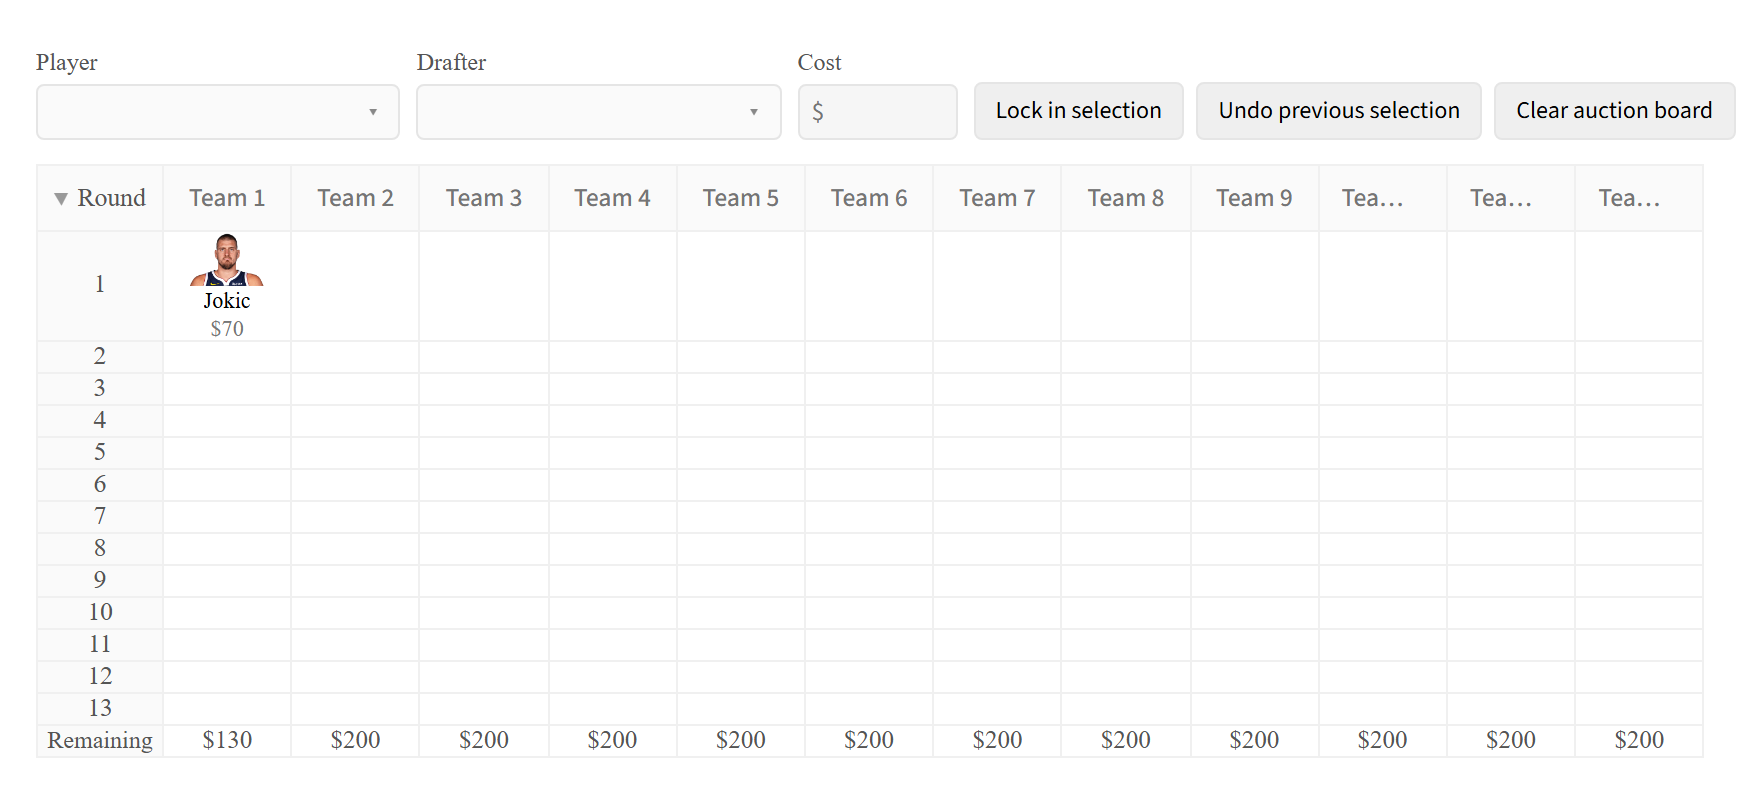
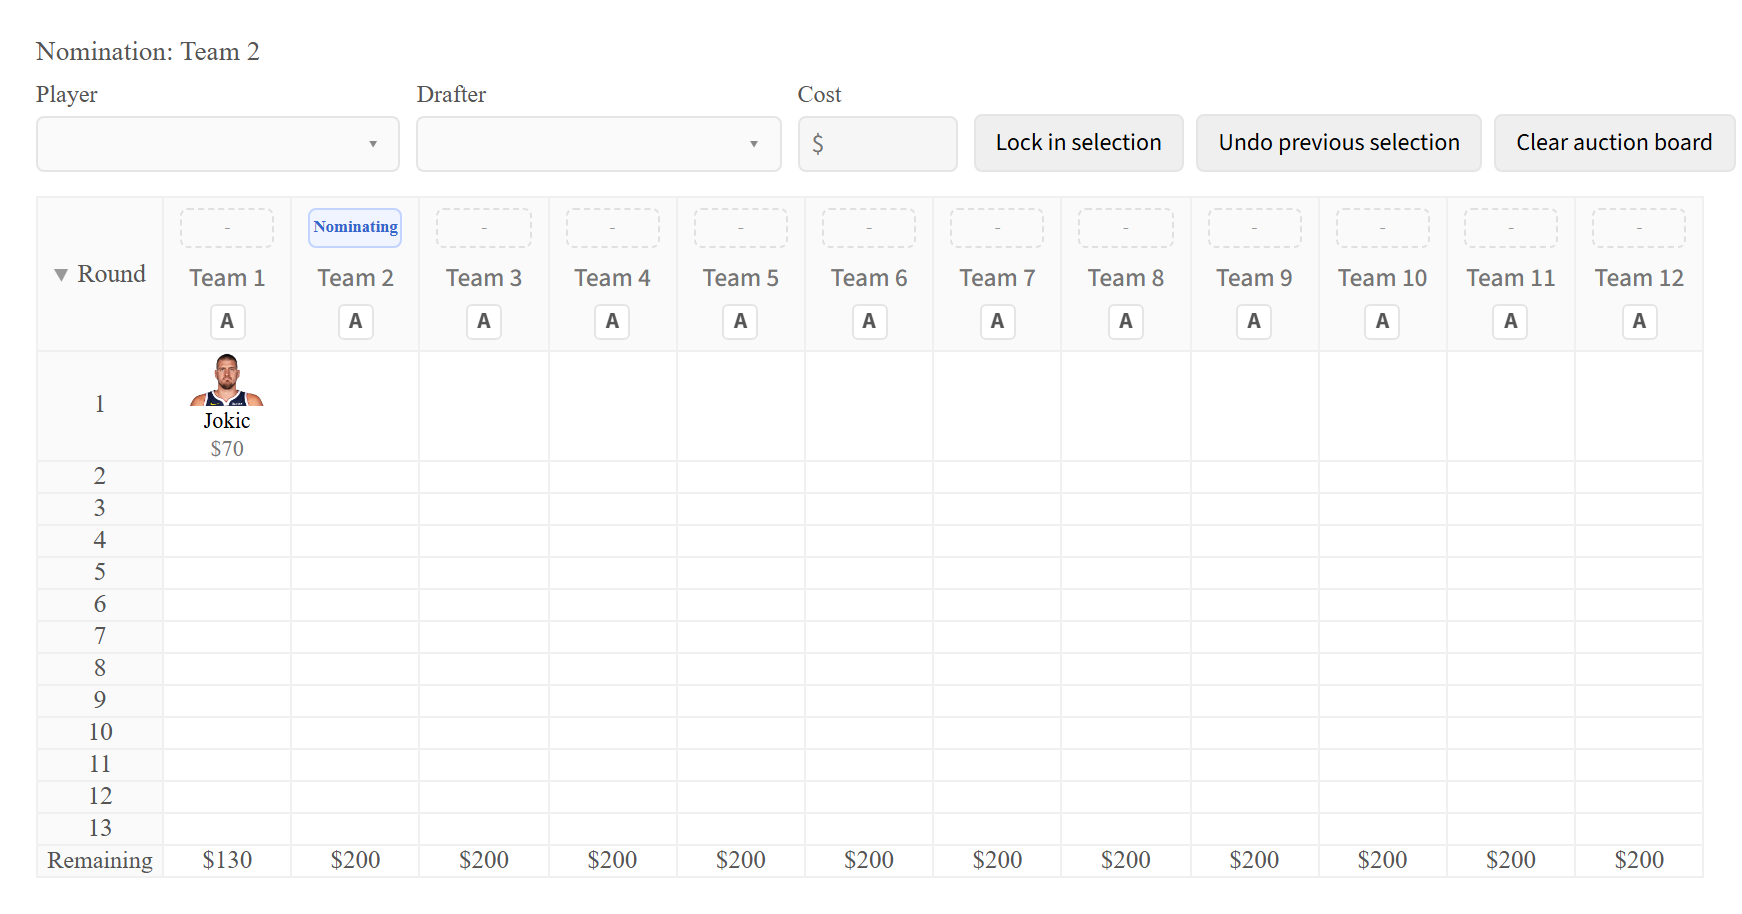
Auction board: stack narrow team headers; regenerate auction screenshots
- A team-header column under 5rem stacks badge, name and autodraft toggle,
  as the phone layout does; it keys on the column's own width (container
  query), so a desktop window with many teams no longer squeezes every
  name to "T..." beside the toggle. Under 4rem the bid-status badge font
  drops so "Nominating" fits instead of losing both ends.
- auctiondetail, mauction and hdollars regenerated: they predated the
  auction autodrafter and the Gnrc. $ fix.

diff --git a/frontend/styles/styles.css b/frontend/styles/styles.css
@@ -2910,6 +2910,7 @@ tr {
     align-items: stretch;
     gap: 4px;
     width: 100%;
+    container: auction-team-header / inline-size;
 }
 
 .auction-team-bid-status {
@@ -2985,6 +2986,29 @@ tr {
     }
     50% {
         box-shadow: 0 0 0 3px light-dark(#66aaff, #77aaff);
+    }
+}
+
+/* A narrow column stacks the team name above the autodraft toggle, as the mobile layout does. It keys on the column's
+   own width rather than the viewport's: a desktop window with many teams squeezes the columns just as much, and side
+   by side the toggle leaves the name room for one letter. Both widths are in rem because what has to fit is text: the
+   phone layout's 10px root font fits "Nominating" in a column that a 16px desktop root does not. After the badge
+   rules, so the badge size wins. */
+@container auction-team-header (max-width: 5rem) {
+    .team-header {
+        flex-direction: column;
+        gap: 2px;
+    }
+    .team-header .team-label-input {
+        width: 100%;
+    }
+}
+
+/* Narrower still, "Nominating", the longest status, overflows the badge at full size. */
+@container auction-team-header (max-width: 4rem) {
+    .auction-team-bid-status {
+        font-size: 0.52rem;
+        padding: 3px 1px;
     }
 }
 
